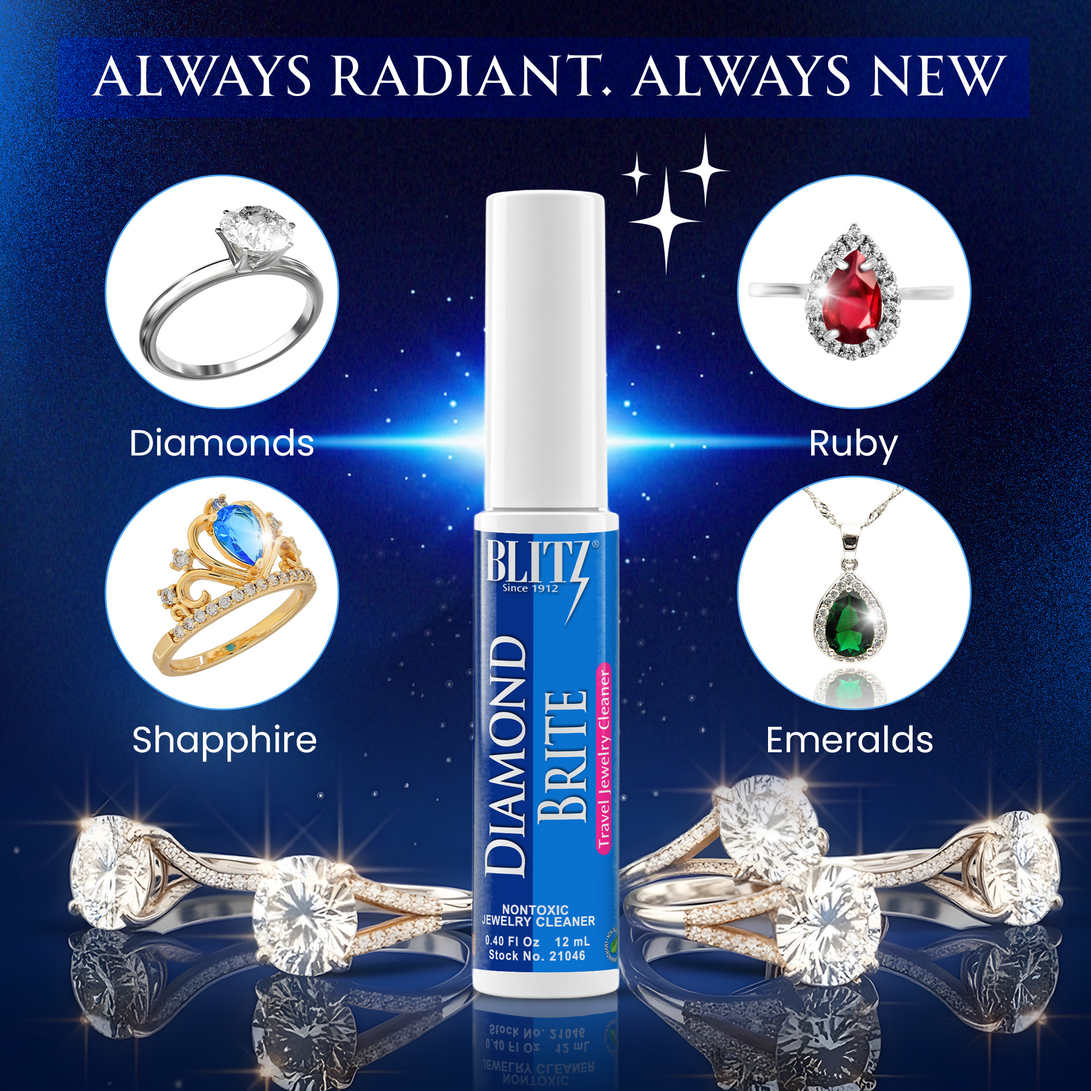
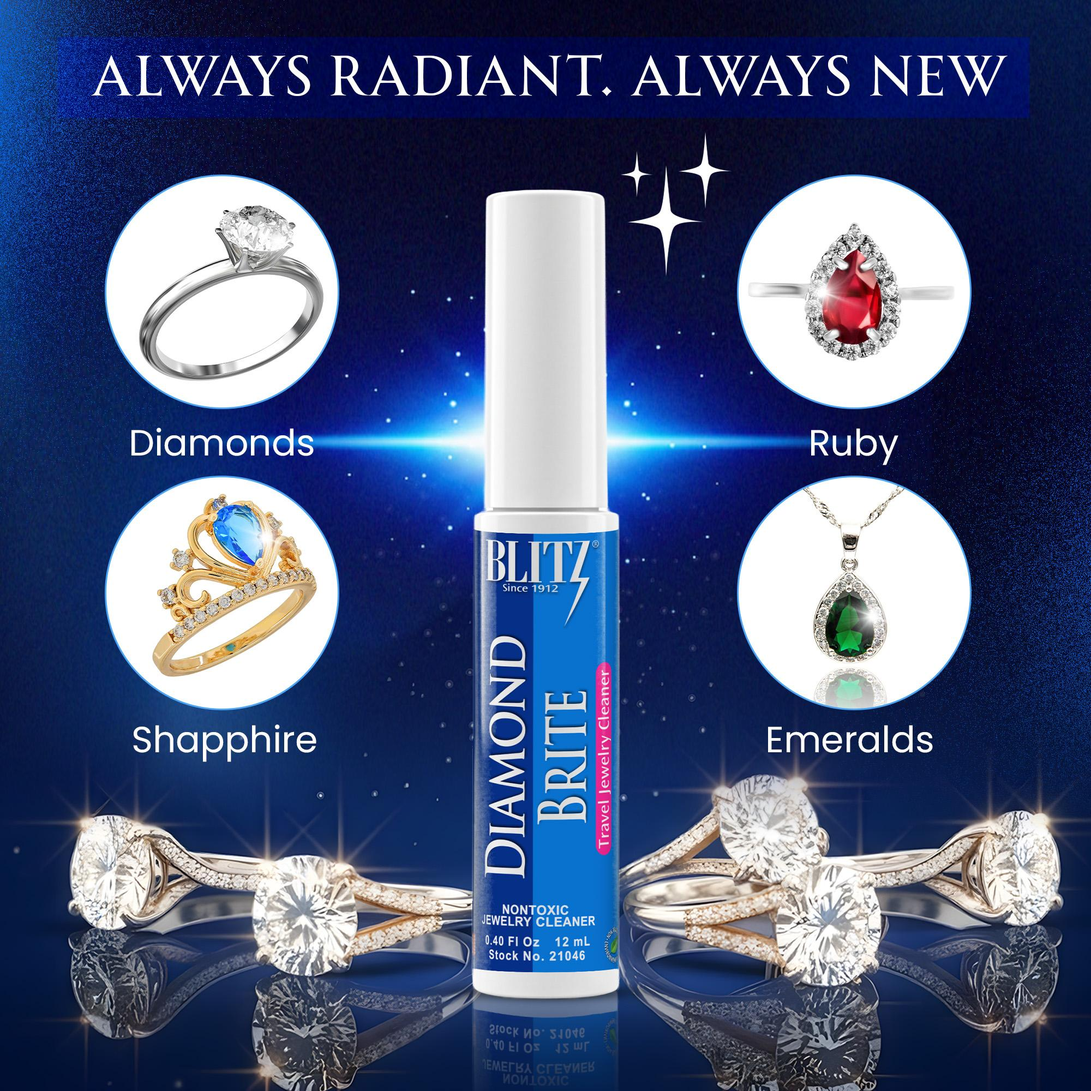
Optimize listing images for web performance

diff --git a/compress_images.py b/compress_images.py
@@ -1,0 +1,38 @@
+import os
+from PIL import Image
+
+images_dir = r"C:\Users\User\.gemini\antigravity\scratch\amazon_portfolio\images"
+
+for root, dirs, files in os.walk(images_dir):
+    for file in files:
+        filepath = os.path.join(root, file)
+        ext = os.path.splitext(filepath)[1].lower()
+        if ext in ['.jpg', '.jpeg', '.png']:
+            try:
+                size_mb = os.path.getsize(filepath) / (1024 * 1024)
+                if size_mb > 1.0: # Only compress files larger than 1MB
+                    print(f"Compressing {filepath} ({size_mb:.2f} MB)...")
+                    img = Image.open(filepath)
+                    
+                    # Convert RGBA to RGB if saving as JPEG
+                    if img.mode in ('RGBA', 'LA') and ext in ['.jpg', '.jpeg']:
+                        img = img.convert('RGB')
+                    
+                    # Resize if extremely large
+                    max_size = 2000
+                    if img.width > max_size or img.height > max_size:
+                        img.thumbnail((max_size, max_size), Image.Resampling.LANCZOS)
+                    
+                    # Save back
+                    if ext in ['.jpg', '.jpeg']:
+                        img.save(filepath, 'JPEG', quality=75, optimize=True)
+                    elif ext == '.png':
+                        # Convert to RGB and save as JPEG to save HUGE space if it's a preview or lifestyle image
+                        # But wait, let's keep PNG extension to avoid breaking links, but save as PNG with optimize
+                        # Let's save as PNG with optimization
+                        img.save(filepath, 'PNG', optimize=True)
+                    
+                    new_size_mb = os.path.getsize(filepath) / (1024 * 1024)
+                    print(f"-> Saved: {new_size_mb:.2f} MB")
+            except Exception as e:
+                print(f"Failed to compress {filepath}: {e}")
